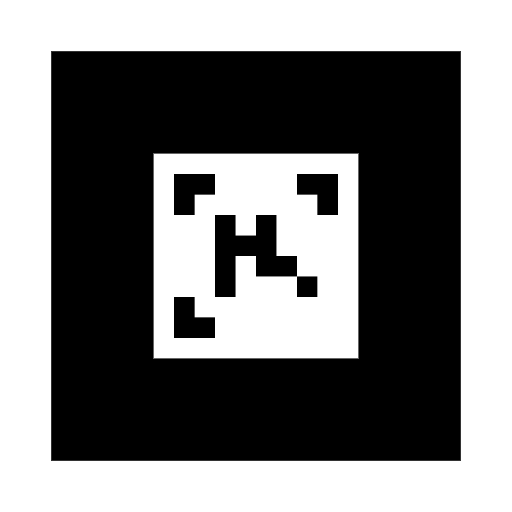
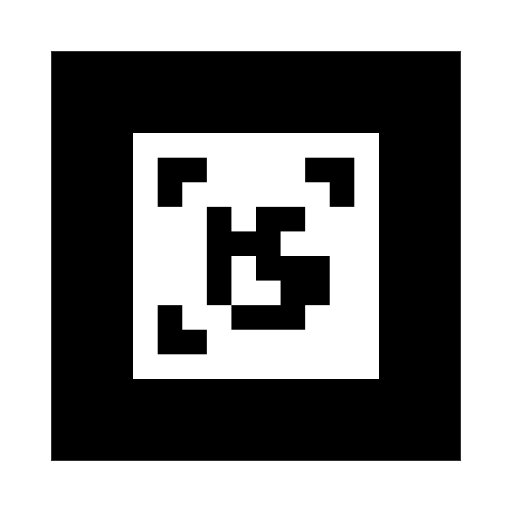
new pattern

Changed region(s): [[0.25, 0.25, 0.75, 0.75]]

diff --git a/index.html b/index.html
@@ -80,7 +80,7 @@
                 id="pattern-truck"
                 type="pattern"
                 preset="custom"
-                url="assets/pattern-truck_.patt"
+                url="assets/pattern-Truck.patt"
                 raycaster="objects: .clickable"
                 emitevents="true"
                 cursor="fuse: false; rayOrigin: mouse;"
